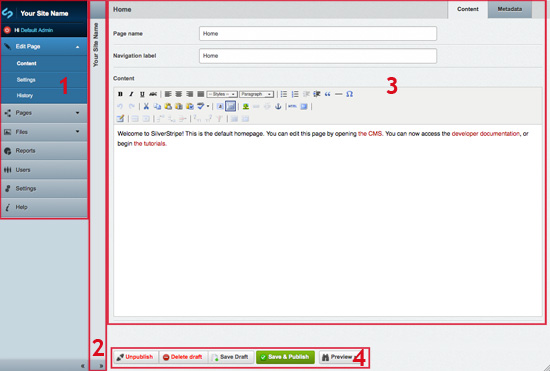
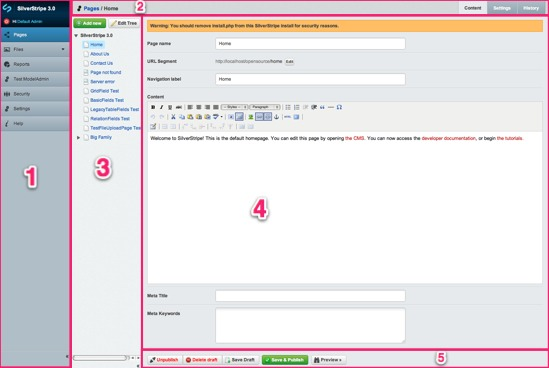
MINOR: Documentation, tutorial (part1)

diff --git a/docs/en/tutorials/1-building-a-basic-site.md b/docs/en/tutorials/1-building-a-basic-site.md
@@ -4,8 +4,7 @@
 
 Welcome to the first in this series of tutorials on the SilverStripe Content Management System (CMS). 
 
-These tutorials are designed to take you from an absolute beginner to being able to build large, complex websites with
-SilverStripe. We assume to begin with, that you have some XHTML, CSS and PHP knowledge. This first tutorial provides an absolute
+These tutorials are designed to take you from an absolute beginner to being able to build large, complex websites with SilverStripe. We assume to begin with, that you have some XHTML, CSS and PHP knowledge. This first tutorial provides an absolute
 introduction to building a simple website using SilverStripe. It will also teach you how to use the content management system at a basic level.
 
 ##  What are we working towards?
@@ -16,8 +15,7 @@ templates - one for the home page, and one for the rest of the site.
 
 ##  Installation
 
-You need to [download the SilverStripe software](http://www.silverstripe.org/stable-download) and install it to your local
-machine or to a webserver. 
+You need to [download the SilverStripe software](http://www.silverstripe.org/stable-download) and install it to your local machine or to a webserver. 
 
 For more infomation about installing and configuring a webserver read the [Installation instructions and videos](../installation). 
 
@@ -27,7 +25,7 @@ This tutorial uses the SilverStripe CMS default theme 'Simple' which you will fi
 
 After installation, open up the folder where you installed SilverStripe. 
 
-If you installed on windows with WAMP, it will likely be at *c:\wamp\wwww*. On Mac OS X with MAMP, it will likely be at */Applications/MAMP/htdocs/*
+If you installed on windows with WAMP, it will likely be at *c:\wamp\wwww*. On Mac OS X, using the built in webserver, it will be in your sites directory */Sites/* (with MAMP, it will likely be at */Applications/MAMP/htdocs/*)
 
 Let's have a look at the folder structure.
 
@@ -36,8 +34,8 @@ Let's have a look at the folder structure.
  | assets/   | | Contains images and other files uploaded via the SilverStripe CMS. You can also place your own content inside it, and link to it from within the content area of the CMS. | 
  | cms/      | | Contains all the files that form the CMS area of your site. It’s structure is similiar to the mysite/ directory, so if you find something interesting, it should be easy enough to look inside and see how it was built. | 
  | framework/ | | The framework that builds both your own site and as the CMS that powers it. You’ll be utilizing files in this directory often, both directly and indirectly.                                                             | 
- | mysite/   | | Contains all your sites code (mainly PHP and JavaScript)  | 
- | themes/   | | Combines all images, stylesheets and templates powering your website into a reusable "theme" | 
+ | mysite/   | | Contains all your sites code (mainly PHP)  | 
+ | themes/   | | Combines all images, stylesheets, javascript and templates powering your website into a reusable "theme" | 
       
 When designing your site you should only need to modify the *mysite*, *themes* and *assets* folders. The rest of the folders contain files and data that are not specific to any site.
 
@@ -47,43 +45,34 @@ When designing your site you should only need to modify the *mysite*, *themes* a
 
 ![](_images/tutorial1_cms-basic.jpg)
 
-The CMS is the area in which you can manage your site content. You can access the cms at http://localhost/admin (or http://yourdomain.com/admin if you are using you own domain name). You
-will be presented with a login screen. You can login with the details you provided at installation. After logging in you
-should be greeted with the CMS and a list of the pages currently in the CMS. Here you can add, delete and reorganize the pages using the buttons at the top. Clicking on a page will open it in the page editing interface pictured below (we've entered some test content).
+The CMS is the area in which you can manage your site content. You can access the cms at http://localhost/your_site_name/admin (or http://yourdomain.com/admin if you are using you own domain name). You
+will be presented with a login screen. Login using the details you provided at installation. After logging in you
+should see the CMS interface with a list of the pages currently on your website (the site tree). Here you can add, delete and reorganize pages. If you need to delete, publish, or unpublish a page, first check "multi-selection" at the top. You will then be able to perform actions on any checked files using the "Actions" dropdown. Clicking on a page will open it in the page editing interface pictured below (we've entered some test content).
 
 ![](_images/tutorial1_cms-numbered.jpg)
 
-1.  These buttons allow you to move between the different sections in the CMS. There are four core sections in the CMS - "Pages", "Files", "Users" and "Settings". Modules may have their own sections here as well, if any are installed. In this tutorial we will be focusing on the "Pages" section.
-2.  While in "Pages" you can quickly move between the pages in the CMS by clicking the vertical bar between the CMS menu and the editor. This will slide out a sidebar. To hide this, click the arrow at the bottom of the sidebar.
+1.  This menu allows you to move between different sections of the CMS. There are four core sections - "Pages", "Files", "Users" and "Settings". If you have modules installed, they may have their own sections here. In this tutorial we will be focusing on the "Pages" section.
+2.  The breadcrumbs on the left will show you a direct path to the page you are currently looking at. You can use this path to navigate up through a page's heirarchy. On the left there are tabs you may use to flick between different aspects of a page. By default, you should be shown three tabs: "Content", "Settings", and "History". 
+ * Content - Allows you to set the title, wysiwyg content, URL and Meta data for your page.  
+ * Settings - Here you set the type of page behavior, parent page, show in search, show in menu, and who can view or edit the page.  
+ * History - This allows you to view previous version of your page, compare change and revert to previous version if need be.  
+3.  Within the "Pages" section (provided you are in the "Content", or "Settings" tab) you can quickly move between pages in the CMS using the site tree. To collapse and expand this sidebar, click the arrow at the bottom. If you are in the history tab, you will notice the site tree has been replaced by a list of the alterations to the current page.  
+![](_images/tutorial1_cms-numbered-3.jpg)  
+4.  This section allows you to edit the content for the currently selected page, as well as changing other properties of the page such as the page name and URL. The content editor has full [WYSIWYG](http://en.wikipedia.org/wiki/WYSIWYG) abilities, allow you to change formatting and insert links, images and tables.
+5.  These buttons allow you to save your changes to the draft copy, publish your draft copy, unpublish from the live website or remove a page from the draft website. The SilverStripe CMS workflow stores two copies of a page, a draft and a published one. By having separate draft & published copies, we can preview draft changes in the site before publishing them to the live website. You can quickly preview your draft pages without leaving the CMS by clicking the "Preview" button.
 
-![](_images/tutorial1_cms-numbered-2b.jpg)
-
-3.  This section allows you to edit the content for the currently selected page, as well as changing other properties of the page such as the page name and URL. The content editor has full [WYSIWYG](http://en.wikipedia.org/wiki/WYSIWYG) abilities, allow you to change formatting and insert links, images and tables.
-4.  These buttons allow you to save your changes to the draft copy, publish your draft copy, unpublish from the live website or remove a page from the draft website. 
-The SilverStripe CMS workflow stores two copies of a page, a draft and a published one. By having separate draft & published copies, we can preview draft changes in the site before publishing them to the live website. You can quickly preview your draft pages without leaving the CMS by clicking the "Preview" button.
-
-### Page Editor
-
-Once you have selected a page to modify from the Pages section your page will open in the Page Editior. 
-
-The Edit Page section has 3 main areas in which you can edit the content of the page, change the settings and track your revision history (These will be covered in more detail further on in the tutorials).
-
-![](_images/tutorial1_editpage-numbered.jpg)
-
-1.  *Content* - Allows you to set the title, wysiwyg content, URL and Meta data for your page.
-2.  *Settings* - Here you set the type of page behavior, parent page, show in search, show in menu, and who can view or edit the page.
-3.  *History* - This allow you to view previous version of your page, compare change and revert to previous version if need be.
-
+![](_images/tutorial1_cms-numbered-5.jpg)  
 
 ### Try it
 
 There are three pages already created for you - "Home", "About Us" and "Contact Us", as well as a 404 page. Experiment
-with the editor - try different formatting, tables and images. When you are done, click "Save" to save the page or "Save
+with the editor - try different formatting, tables and images. When you are done, click "Save Draft" or "Save
 & Publish" to post the content to the live site. 
 
-When you create a new page, you are given a drop down that allows you to set the structure of the page (Top level or Under another page) and the page type. 
-The page type specifies the templates used to render the page, the fields that are able to be edited in the CMS, and page specific
-behavior. We will explain page types in more depth as we progress; for now, make all pages of the type "Page".
+### New pages
+To create a new page, click the add new button above the site tree.  
+When you create a new page, you are given the option of setting the structure of the page (Top level or Under another page) and the page type. 
+The page type specifies the templates used to render the page, the fields that are able to be edited in the CMS, and page specific behavior. We will explain page types in more depth as we progress; for now, make all pages of the type "Page".
 
 ![](_images/tutorial1_addpage.jpg)
 
@@ -139,8 +128,8 @@ browser and are formatted either with a *$* at the beginning or are between the 
 
 **Flushing the cache**
 
-Whenever we edit a template file, we need to append *?flush=1* onto the end of the URL, e.g.
-http://localhost/home/?flush=1. SilverStripe stores template files in a cache for quicker load times. Whenever there are
+Whenever we edit a template file, we need to append *?flush=all* onto the end of the URL, e.g.
+http://localhost/home/?flush=all. SilverStripe stores template files in a cache for quicker load times. Whenever there are
 changes to the template, we must flush the cache in order for the changes to take effect.
 
 ##  The Navigation System
@@ -158,7 +147,9 @@ Menu for our site are created using a **loop**. Loops allow us to iterate over a
 	:::ss
 	<ul>
 		<% loop Menu(1) %>	  
-			<li class="$LinkingMode"><a href="$Link" title="$Title.XML">$MenuTitle.XML</a></li>
+			<li class="$LinkingMode">
+				<a href="$Link" title="$Title.XML">$MenuTitle.XML</a>
+			</li>
 		<% end_loop %>
 	</ul>
 
@@ -171,20 +162,31 @@ This creates the navigation at the top of the page:
 
 
 
-## Highlighting the current page
+### Highlighting the current page
 
 A useful feature is highlighting the current page the user is looking at. We can do this with the template variable
-*$LinkingMode* which we mentioned before. *$LinkingMode* returns one of three values:
+*$LinkingMode*, mentioned earlier. *$LinkingMode* returns one of three values:
 
-*  *current* - This page is being visited, and should be highlighted
-*  *link* - The page is not currently being visited, so shouldn't be highlighted
-*  *section* - A page under this page is being visited so you probably want to highlight it.
+*  *current* - This page is being visited
+*  *link* - This page is not currently being visited
+*  *section* - A page under this page is being visited
 
-> For example: if you were visiting a staff member such as "Home > Company > Staff > Bob Smith", you would want to highlight 'Company' to say you are in that section.
+> For example, if you were here: "Home > Company > Staff > Bob Smith", you may want to highlight 'Company' to say you are in that section. If you add $LinkingMode to your navigation elements as a class, ie:
+	:::ss
+	<li class="$LinkingMode">
+	 	<a href="$Link" title="$Title.XML">$MenuTitle.XML</a>
+	</li>
 
-Highlighting the current page is easy, simply assign a css class based on the value of *$LinkingMode*. Then provide a different style for current/section in css, as has been provided for you in *simple/css/layout.css*. 
-
-![](_images/tutorial1_menu-highlighted.jpg)
+you will then be able to target a section in css (*simple/css/layout.css*), ie: 
+	:::ss
+	.section { 
+		background:#ccc;
+	} 
+You may also style the link to the current page this way, eg:
+	:::ss	
+	.current { 
+		/* Your styles here */
+	} 
 
 ## A second level of navigation
 
@@ -210,7 +212,12 @@ Open up */themes/simple/templates/Includes/Sidebar.ss* template and look at the 
 	:::ss
 	<ul>
 	  <% loop Menu(2) %>
-	    <li class="$LinkingMode"><a href="$Link" title="Go to the $Title.XML page"><span class="arrow">&rarr;</span><span class="text">$MenuTitle.XML</span></a></li>
+	    <li class="$LinkingMode">
+		    <a href="$Link" title="Go to the $Title.XML page">
+		    	<span class="arrow">&rarr;</span>
+		    	<span class="text">$MenuTitle.XML</span>
+		    </a>
+	    </li>
 	  <% end_loop %>
 	</ul>
 
@@ -228,7 +235,12 @@ like this:
 		...
 			<ul>
 				<% loop Menu(2) %>
-				<li class="$LinkingMode"><a href="$Link" title="Go to the $Title.XML page"><span class="arrow">&rarr;</span><span class="text">$MenuTitle.XML</span></a></li>
+				<li class="$LinkingMode">
+					<a href="$Link" title="Go to the $Title.XML page">
+						<span class="arrow">&rarr;</span>
+						<span class="text">$MenuTitle.XML</span>
+					</a>
+				</li>
 				<% end_loop %>
 			</ul>
 		...
@@ -244,37 +256,44 @@ Open up */themes/simple/templates/Includes/BreadCrumbs.ss* template and look at 
 
 	:::ss
 	<% if Level(2) %>
-	<div id="Breadcrumbs">
-	   	$Breadcrumbs
-	</div>
-<% end_if %>	
+		<div id="Breadcrumbs">
+		   	$Breadcrumbs
+		</div>
+	<% end_if %>	
 
 Breadcrumbs are only useful on pages that aren't in the top level. We can ensure that we only show them if we aren't in
 the top level with another if statement.
 
-The *Level* page control allows you to get data from the page's parents, e.g. if you used *Level(1)*, you could use
-*$Level(1).Title* to get the top level page title. In this case, we merely use it to check the existence of a second
-level page; if one exists then we include the breadcrumbs.
+The *Level* page control allows you to get data from the page's parents, e.g. if you used *Level(1)*, you could use:
+	:::ss
+	$Level(1).Title 
 
-This shows how the two level navigation system functions. Both menus should be updating and highlighting as you move
-from page to page. They will also mirror changes done in the SilverStripe CMS, such as renaming pages or moving them
-around.
+to get the top level page title. In this case, we merely use it to check the existence of a second level page: if one exists then we include breadcrumbs.
+
+Both the top menu, and the sidebar menu should be updating and highlighting as you move from page to page. They will also mirror changes done in the SilverStripe CMS, such as renaming pages or moving them around.
 
 ![](_images/tutorial1_menu-two-level.jpg)
 
-Feel free to experiment with the if and loop blocks, for example you could create a drop down style menu from the top navigation using a combination of the if blocks, loop blocks and some CSS to style it. This uses a *Children* if and loop block which checks to see if there is any sub-pages available within each top level navigation item, you will need to come up with your own CSS to correctly style this approach.
+Feel free to experiment with the if and loop statements, for example you could create a drop down style menu from the top navigation using a combination of if statements, loops and some CSS to style it. 
 
-	::ss
+The following example runs an if statement, and a loop on *Children*, checking to see if any sub-pages exist within each top level navigation item, you will need to come up with your own CSS to correctly style this approach.
+
+	:::ss
 	<ul>
 	  <% loop Menu(1) %>
 	    <li class="$LinkingMode">
 	      <a href="$Link" title="$Title.XML">$MenuTitle.XML</a>
 	      <% if Children %>
-	      <ul>
-	        <% loop Children %>
-	          <li class="$LinkingMode"><a href="$Link" title="Go to the $Title.XML page"><span class="arrow">&rarr;</span><span class="text">$MenuTitle.XML</span></a></li>
-	        <% end_loop %>
-	      <ul>
+		      <ul>
+		        <% loop Children %>
+		          <li class="$LinkingMode">
+		          	<a href="$Link" title="Go to the $Title.XML page">
+		          		<span class="arrow">&rarr;</span>
+		          		<span class="text">$MenuTitle.XML</span>
+		          	</a>
+		          </li>
+		        <% end_loop %>
+		      <ul>
 	      <% end_if %>
 	    </li>
 	  <% end_loop %>
@@ -294,8 +313,7 @@ banner to welcome visitors.
 ### Creating a new page type
 
 Earlier we stated that every page in a SilverStripe site has a **page type**, and that SilverStripe will look for a
-template or template layout corresponding to the page type. Therefore, the first step to get the homepage using a different template is to
-create a new page type.
+template, or template layout, corresponding to the page type. Therefore, the first step when switching the homepage template is to create a new page type.
 
 Each page type is represented by two php classes: a *data object* and a *controller*. Don't worry about the details of page
 types right now, we will go into much more detail in tutorial two.
@@ -321,7 +339,7 @@ Create a new file *HomePage.php* in *mysite/code*. Copy the following code into 
 
 
 Every page type also has a database table corresponding to it. Every time we modify the database, we need to rebuild it.
-We can do this by going to [http://localhost/dev/build?flush=1](http://localhost/dev/build?flush=1) or replace *localhost* with your own domain name. 
+We can do this by going to [http://localhost/dev/build?flush=all](http://localhost/dev/build?flush=1) (replace *localhost* with your own domain name if applicable). 
 
 It may take a moment, so be patient. This add tables and fields needed by your site, and modifies any structures that have changed. It
 does this non-destructively - it will never delete your data.
@@ -332,7 +350,7 @@ As we have just created a new page type, SilverStripe will add this to the list 
 
 After building the database, we can change the page type of the homepage in the CMS. 
 
-Navigate in the CMS to the "Home" page and under the "Behaviour" tab in the "Edit Page > Settings" section. Change it to *Home Page*, and click "Save & Publish".
+In the CMS, navigate to the "Home" page and switch to the "Settings" tab. Change "Page type" to *Home Page*, and click "Save & Publish".
 
 ![](_images/tutorial1_homepage-type.jpg)
 
@@ -345,11 +363,17 @@ to the template of the page type's parents.
 
 ### Creating a new template
 
-To create a new template layout, create a copy of *Page.ss* (found in *themes/simple/templates/Layouts*) and call it *HomePage.ss*. If we flush the cache (*?flush=1*), SilverStripe should now be using *HomePage.ss* for the homepage, and *Page.ss* for the rest of the site. Now let's customize the *HomePage* template. 
+To create a new template layout, create a copy of *Page.ss* (found in *themes/simple/templates/Layouts*) and call it *HomePage.ss*. If we flush the cache (*?flush=all*), SilverStripe should now be using *HomePage.ss* for the homepage, and *Page.ss* for the rest of the site. Now let's customize the *HomePage* template. 
 
-First, remove the breadcrumbs and the secondary menu by removing the `<% include SideBar %>` line of code; we don't need them for the homepage. Let's replace the title with an image. Add this line above the *$Content* variable.
+First, remove the breadcrumbs and the secondary menu by removing:
+	<% include SideBar %> 
+ we don't need it for the homepage. 
 
-Now add the following to replace the `<h1>$Title</h1>` code in your template:
+Let's replace the title with an image. Find this line:
+	:::ss
+	<h1>$Title</h1>
+
+ and replace it with:
 
 	:::ss
 	<div id="Banner">
@@ -365,21 +389,16 @@ Your Home page should now look like this:
 SilverStripe first searches for a template in the *themes/simple/templates* folder. Since there is no *HomePage.ss*,
 it will use the *Page.ss* for both *Page* and *HomePage* page types. When it comes across the *$Layout* tag, it will
 then descend into the *themes/simple/templates/Layout* folder, and will use *Page.ss* for the *Page* page type, and
-*HomePage.ss* for the *HomePage* page type. So while you could create a HomePage.ss in the *themes/simple/templates/* it is better to reuse the navigation and footer common to both our Home page and the rest of the pages on our website and lets you write less code to achieve the end result.
+*HomePage.ss* for the *HomePage* page type. So while you could create a HomePage.ss in the *themes/simple/templates/* it is better to reuse the navigation and footer common to both our Home page and the rest of the pages on our website.
 
 ![](_images/tutorial1_subtemplates-diagram.jpg)
 
 
 ## Summary
 
-We have introduced template variables, controls and if blocks, and we have used these
-to build a basic but fully functional site. You have also been briefly introduced to page types, and seen how they
-correspond to templates and sub-templates. By using these templates, you have seen how to customize the site content
-according to the page type of the page you are displaying.
+So far we have learnt about template variables, controls and if statements. We have used these to build a basic but fully functional website. We have also briefly covered page types, and looked at how they correspond to templates and sub-templates. Using templates, we have customized our website's design according to the page type of any given page.
 
-In the next tutorial, [Extending a Basic Site](2-extending-a-basic-site), we will explore page types on a
-deeper level, and see how you can customize your own page types to extend SilverStripe to do much more interesting
-things.
+In the next tutorial, [Extending a Basic Site](2-extending-a-basic-site), we will explore page types on a deeper level, and look at customising our own page types to extend the functionality of SilverStripe.
 
 [Next Tutorial >>](2-extending-a-basic-site)
 
